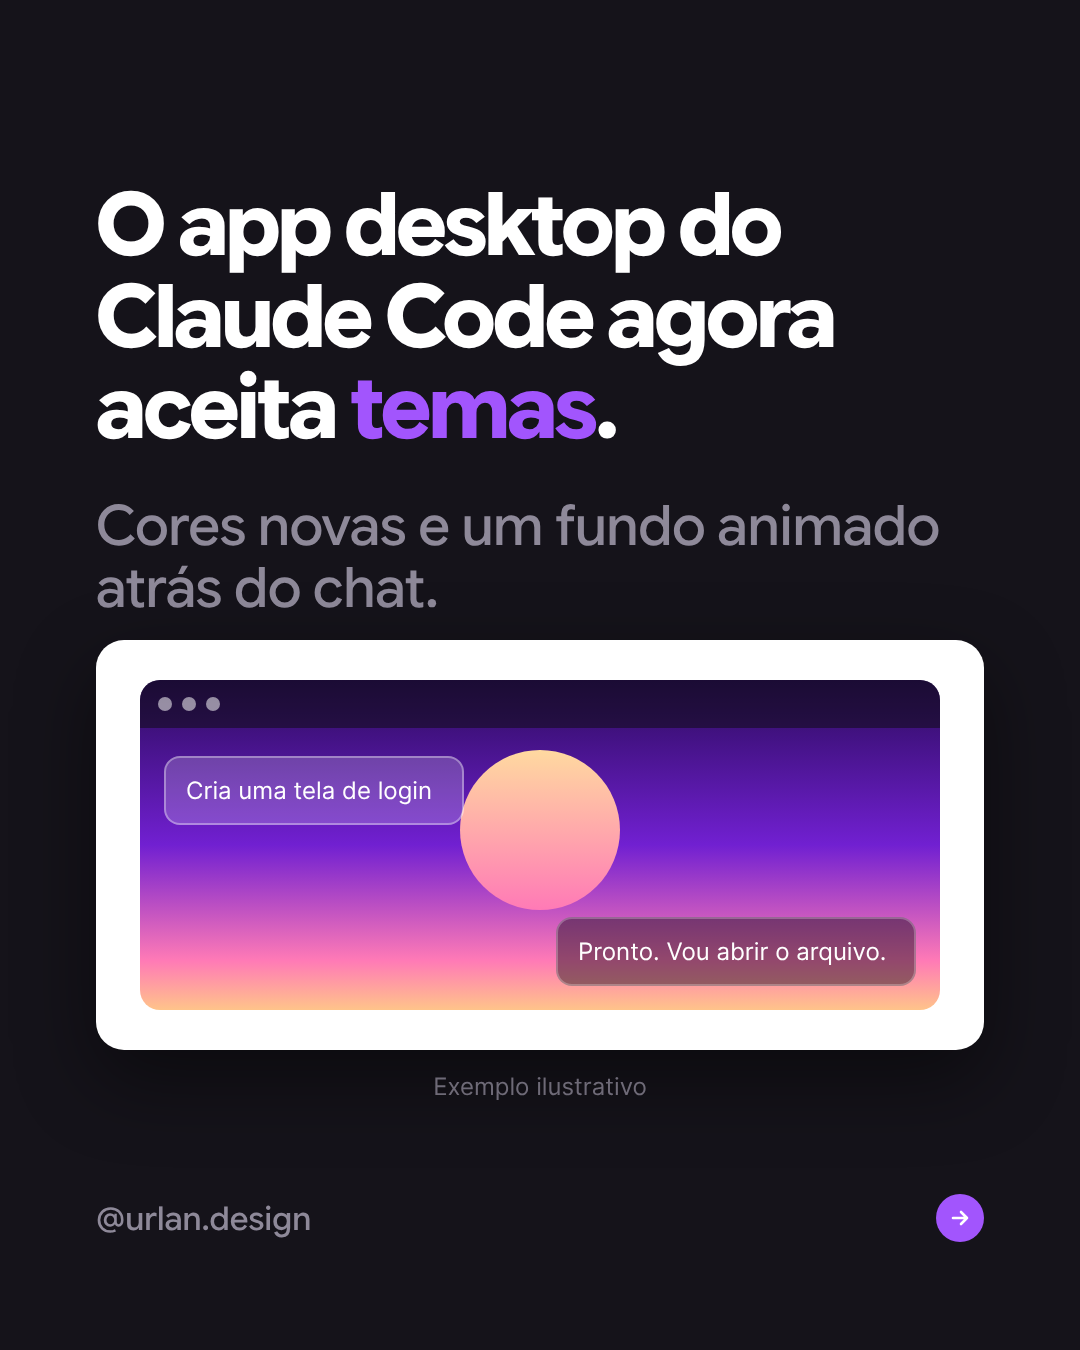
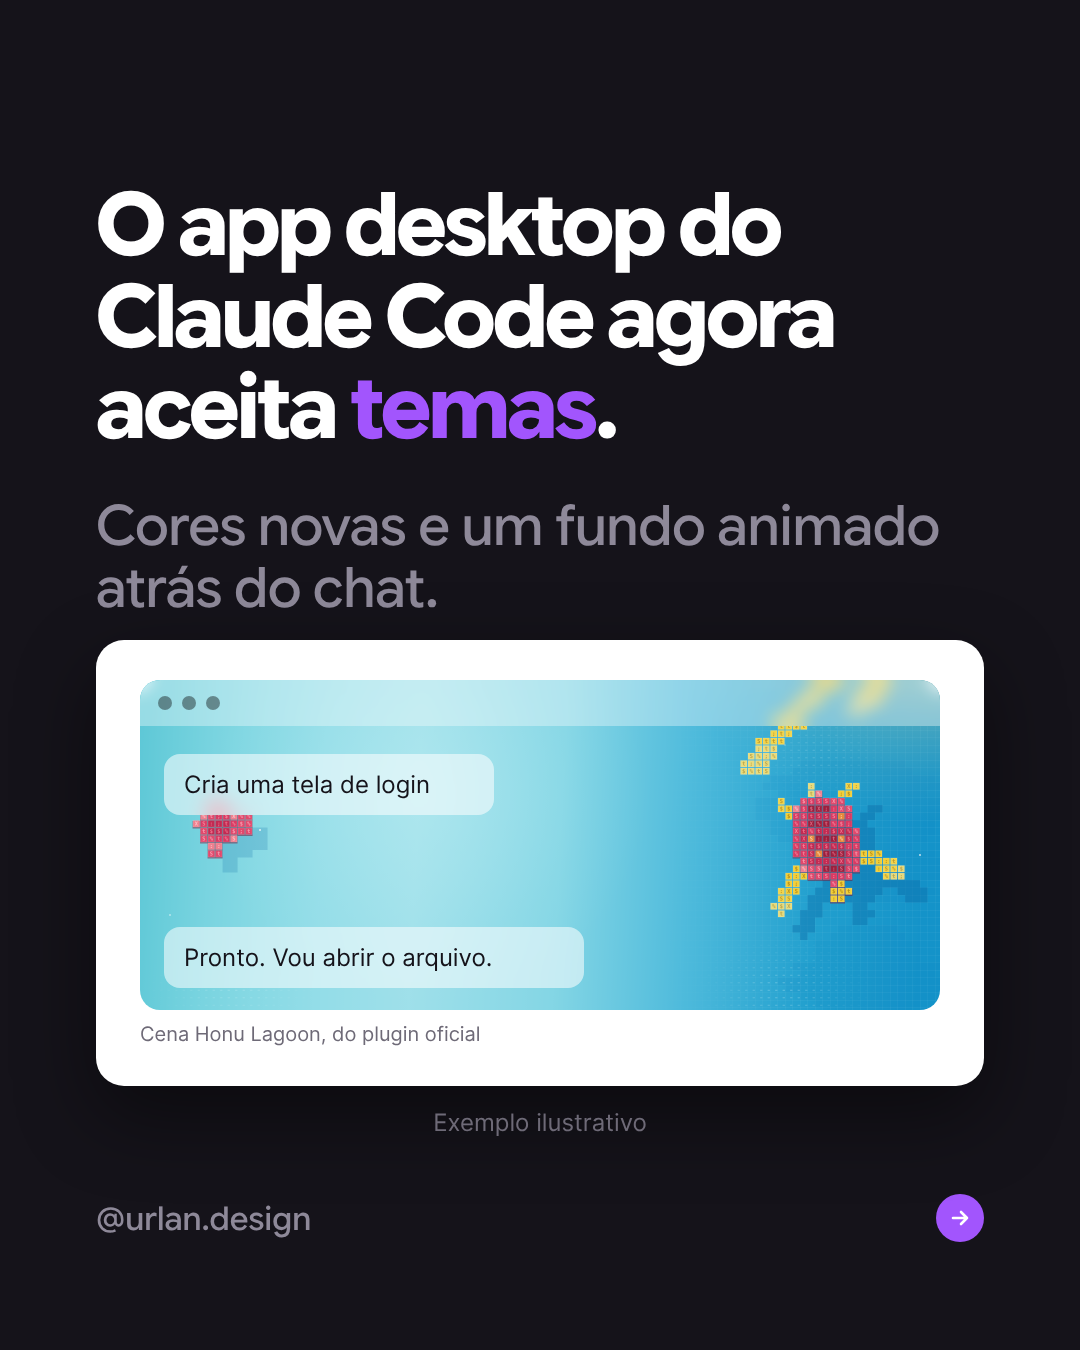
Temas Claude Code: cenas oficiais do plugin (Apache 2.0) na capa e nos slides
Claude-Session: https://claude.ai/code/session_01QSS2xpnkFBbnikEFrmQ9em

Changed region(s): [[0.0917, 0.4978, 0.9167, 0.84]]

diff --git a/2026-11-claude-code-temas/mockups/janela.html b/2026-11-claude-code-temas/mockups/janela.html
@@ -1,6 +1,6 @@
-<div style="height:330px;border-radius:20px;overflow:hidden;position:relative;background:linear-gradient(180deg,#2B0B5C,#7120D1 50%,#FF7AB6 85%,#FFC48A)">
- <div style="position:absolute;left:50%;top:70px;width:160px;height:160px;margin-left:-80px;border-radius:50%;background:linear-gradient(#FFD9A0,#FF7AB6)"></div>
- <div style="position:absolute;left:0;right:0;top:0;height:48px;background:rgba(15,12,20,.55);display:flex;gap:10px;align-items:center;padding:0 18px"><i style="width:14px;height:14px;border-radius:50%;background:#fff8"></i><i style="width:14px;height:14px;border-radius:50%;background:#fff8"></i><i style="width:14px;height:14px;border-radius:50%;background:#fff8"></i></div>
- <div style="position:absolute;left:24px;top:76px;width:300px;padding:18px 20px;border-radius:16px;background:rgba(255,255,255,.2);border:2px solid rgba(255,255,255,.35);color:#fff;font-size:24px">Cria uma tela de login</div>
- <div style="position:absolute;right:24px;bottom:24px;width:360px;padding:18px 20px;border-radius:16px;background:rgba(15,12,20,.45);border:2px solid rgba(255,255,255,.25);color:#fff;font-size:24px">Pronto. Vou abrir o arquivo.</div>
+<div style="height:330px;border-radius:20px;overflow:hidden;position:relative;background:url(cenas/svg-honu-lagoon.png) center/cover">
+ <div style="position:absolute;left:0;right:0;top:0;height:46px;background:rgba(255,255,255,.35);backdrop-filter:blur(8px);display:flex;gap:10px;align-items:center;padding:0 18px"><i style="width:14px;height:14px;border-radius:50%;background:#0006"></i><i style="width:14px;height:14px;border-radius:50%;background:#0006"></i><i style="width:14px;height:14px;border-radius:50%;background:#0006"></i></div>
+ <div style="position:absolute;left:24px;top:74px;width:330px;padding:16px 20px;border-radius:16px;background:rgba(255,255,255,.55);backdrop-filter:blur(10px);font-size:24px;color:#15131A">Cria uma tela de login</div>
+ <div style="position:absolute;left:24px;bottom:22px;width:420px;padding:16px 20px;border-radius:16px;background:rgba(255,255,255,.55);backdrop-filter:blur(10px);font-size:24px;color:#15131A">Pronto. Vou abrir o arquivo.</div>
 </div>
+<div style="margin-top:12px;font-size:20px;color:#6E6A77">Cena Honu Lagoon, do plugin oficial</div>

diff --git a/2026-11-claude-code-temas/mockups/lista.html b/2026-11-claude-code-temas/mockups/lista.html
@@ -1,6 +1,7 @@
-<div style="background:#15131A;color:#fff;border-radius:16px;padding:22px 24px;font-family:'Google Sans Code',monospace;font-size:26px">/custom-theme list</div>
-<div style="margin-top:16px;display:flex;flex-direction:column;gap:12px;font-size:28px">
- <div style="display:flex;align-items:center;gap:16px"><span style="width:54px;height:38px;border-radius:10px;background:linear-gradient(135deg,#2BB3C0,#0E5A8A)"></span>honu-lagoon</div>
- <div style="display:flex;align-items:center;gap:16px;background:#F1E5FF;border-radius:12px;padding:6px 10px;margin:0 -10px"><span style="width:54px;height:38px;border-radius:10px;background:linear-gradient(135deg,#7120D1,#2BC08A)"></span><b style="font-weight:500;color:#7120D1">aurora</b></div>
- <div style="display:flex;align-items:center;gap:16px;color:#8E8999">+ 36 cenas</div>
+<div style="background:#15131A;color:#fff;border-radius:16px;padding:20px 24px;font-family:'Google Sans Code',monospace;font-size:26px">/custom-theme list</div>
+<div style="margin-top:16px;display:grid;grid-template-columns:repeat(3,1fr);gap:14px;font-size:22px">
+ <div><div style="height:110px;border-radius:12px;background:url(cenas/svg-koi-pond.png) center/cover"></div><div style="margin-top:8px">Koi Pond</div></div>
+ <div><div style="height:110px;border-radius:12px;background:url(cenas/svg-night-reef.png) center/cover;outline:4px solid #7120D1;outline-offset:2px"></div><div style="margin-top:8px;color:#7120D1;font-weight:500">Night Reef</div></div>
+ <div><div style="height:110px;border-radius:12px;background:url(cenas/svg-halftone-dawn.png) center/cover"></div><div style="margin-top:8px">Halftone Dawn</div></div>
 </div>
+<div style="margin-top:10px;font-size:22px;color:#8E8999">+ 35 cenas</div>

diff --git a/testes-capa/serie/capa-claude-code-temas.html b/testes-capa/serie/capa-claude-code-temas.html
@@ -10,12 +10,12 @@ html,body{margin:0}
 .top b{font-family:GSF;font-weight:600;letter-spacing:0;text-transform:none;font-size:24px;color:#fff;display:flex;align-items:center;gap:12px}
 .top img{width:40px;height:40px;border-radius:50%;object-fit:cover}
 .mid{position:absolute;left:0;right:0;top:50%;transform:translateY(-54%);text-align:center}
-.s{font-family:Caveat;font-weight:700;font-size:86px;line-height:1;color:#FFB3D6}
+.s{font-family:Caveat;font-weight:700;font-size:86px;line-height:1;color:#7FE3D6}
 .t{font-weight:800;font-size:210px;line-height:.9;letter-spacing:-6px;margin:18px 0 22px;text-shadow:0 6px 40px rgba(0,0,0,.25)}
 .sw{position:absolute;left:0;right:0;bottom:70px;text-align:center;font-family:Caveat;font-weight:700;font-size:56px;line-height:1;color:rgba(255,255,255,.85)}
 .sw svg{display:block;margin:0 auto 6px}
 </style></head><body><div class="c">
-<img class="bg" src="bg-claude-code-temas.png">
+<img class="bg" src="bg-claude-code-temas-nightreef.png">
 <div class="mid"><div class="s">Temas no Claude Code</div><div class="t">Com a sua<br>marca</div><div class="s">No app desktop</div></div>
 <div class="sw"><svg width="64" height="64" viewBox="0 0 24 24" fill="none" stroke="rgba(255,255,255,.85)" stroke-width="1.6" stroke-linecap="round" stroke-linejoin="round"><path d="M5 12h14M13 6l6 6-6 6"/></svg>Deslize pra ver</div>
 </div></body></html>
